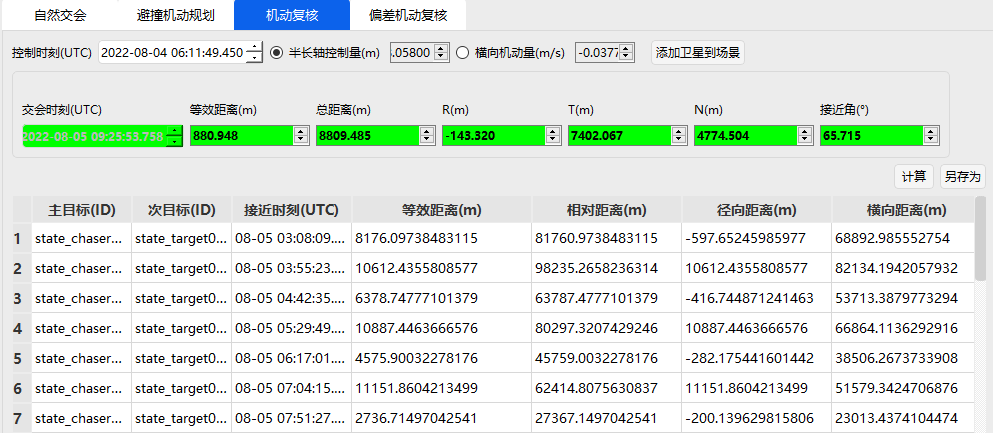
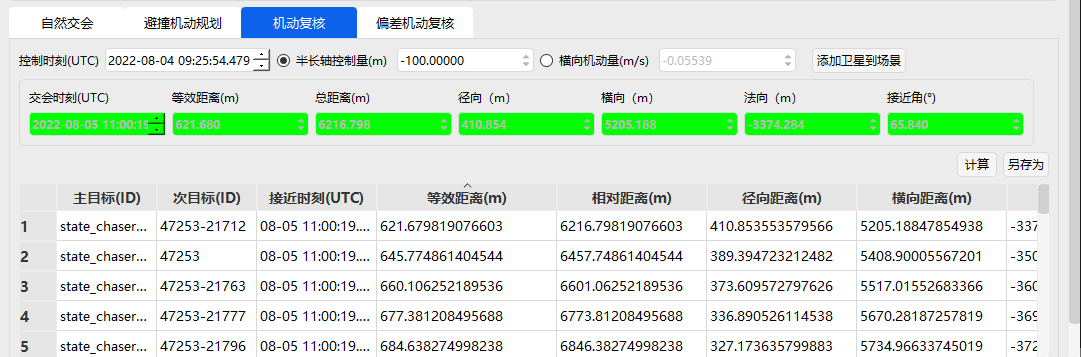
邹新强3.7修改版

diff --git a/3.案例教程/7-碰撞规避案例.md b/3.案例教程/7-碰撞规避案例.md
@@ -4,9 +4,9 @@
 
 本案例想定场景为航天器与单个重点空间目标及多目标库的多圈次碰撞规避分析。内容包括：
 
-1. 基于精密星历与相对轨道动力学模型建立航天器碰撞规避机动评估模型，涵盖自然交会分析、机动规划分析、机动复核功能。
+1. 基于精密星历与相对轨道动力学模型建立航天器碰撞规避机动评估模型，涵盖自然交会分析、机动规划分析、机动复核功能；
 
-2. 考虑航天器与空间目标多圈周期性接近对规避效果的影响，通过优化控制量，寻找测控圈次内的控制最优解，避免控制后短期内再次出现碰撞风险。
+2. 考虑航天器与空间目标多圈周期性接近对规避效果的影响，通过优化控制量，寻找测控圈次内的控制最优解，避免控制后短期内再次出现碰撞风险；
 
 3. 进行机动复核，提高机动规避效果，保证操作的安全性。
 
@@ -18,23 +18,23 @@
 
 1. 卫星星历
 
-   - “模式”为“从星历选择”，点击“星历文件”数据框右侧的![](media/3.7碰撞规避案例/image215.png)，读取“CAM”文件夹中在轨航天器精密星历数据文件“state_chaser0805.txt”，文件路径为：“…\\ATK\\AtkInput\\CAM\\state_chaser0805.txt”；代表选择卫星星历为“2022 年 8 月 2 日 23:00”至“2022 年 8 月 8 日 12:00” 中心格式的在轨航天器精密星历数据；
+   - “模式”为“从星历选择”，点击“星历文件”数据框右侧的【![](media/3.7碰撞规避案例/image215.png)】，读取“CAM”文件夹中在轨航天器精密星历数据文件“state_chaser0805.txt”，文件路径为：“…\\ATK\\AtkInput\\CAM\\state_chaser0805.txt”；代表选择卫星星历为“2022 年 8 月 2 日 23:00”至“2022 年 8 月 8 日 12:00” 中心格式的在轨航天器精密星历数据；
 
    - 下拉菜单选择 “UTC/BJT”—【UTC】时间格式。
 
 2. 目标星历
 
-   - 勾选【使用】，选择是否进行与指定空间目标的碰撞规避计算；
+   - 勾选【使用】，选择进行与指定空间目标的碰撞规避计算；
 
-   - “模式”为“从星历选择”，点击“星历文件”数据框右侧的![](media/3.7碰撞规避案例/image215.png)，读取目标精密星历数据 “state_target0805.txt”，文件路径为“…\\ATK\\AtkInput\\CAM\\state_target0805.txt”；代表选择目标星历为“2022 年 7 月 31 日 14:26”至“2022 年 8 月 8 日 14:26”中心格式的在轨航天器精密星历数据；
+   - “模式”为“从星历选择”，点击“星历文件”数据框右侧的【![](media/3.7碰撞规避案例/image215.png)】，读取目标精密星历数据文件 “state_target0805.txt”，文件路径为“…\\ATK\\AtkInput\\CAM\\state_target0805.txt”；代表选择目标星历为“2022 年 7 月 31 日 14:26”至“2022 年 8 月 8 日 14:26”中心格式的在轨航天器精密星历数据；
 
-   - 下拉菜单选择 “UTC/BJT”—【UTC】时间格式。
+   - 下拉菜单选择 “UTC/北京时”—【UTC】时间格式。
 
 3. 目标数据库
 
    - 勾选【使用 TLE】，单击【选择…】，使用 TLE 数据与数据库内所有其他空间目标进行碰撞规避计算；
 
-   - 选择并载入TLE格式数据“3le20220805.txt”，文件路径为“\\ATK\\AtkInput\\CAM\\test20220805\\ 3le20220805.txt”；表示截止2022年8月5日“SpaceTrack”收集的所有空间目标编目；
+   - 选择并载入TLE格式数据“3le20220805.txt”，文件路径为“\\ATK\\AtkInput\\CAM\\ 3le20220805.txt”；表示截止2022年8月5日“SpaceTrack”收集的所有空间目标编号。载入数据后取消勾选【使用 TLE】，在“机动复核”功能时再勾选此按钮；
 
    - 单击【设置】，输入需排除目标编号后选择【添加】，将目标编号加入列表中，点击【确定】保存，其中 SSC 为五位数的空间目标国际编号；
 
@@ -46,15 +46,15 @@
 
 1. 设置条件约束
 
-   - 在【交会分析门限】中输入需要规避的分析门限值“100km”，则计算后结果仅显示小于此次输入的分析门限值 100km 的数据；
+   - 在【交会分析门限】中输入需要规避的分析门限值“100000m”，则计算后结果仅显示小于此次输入的分析门限值 100000m 的数据；
 
    - 根据航天器与空间目标的相对运动状态，以及任务对计算速度和精度的要求，基于以下表格中的可选项，在【相对轨道预报模型】中选择适用于长时间多圈次的“非线性方程”：
 
    | 名称         | 算法                   | 选择场景                                             |
    | ------------ | ---------------------- | ---------------------------------------------------- |
    | 线性方程     | C-W 方程               | 相对轨道模型，会损失精度但计算速度较高               |
-   | 非线性方程   | 解析非线性相对运动方程 | 精度高于 C-W 模型计算速度低于 C-W 模型               |
-   | 解析绝对预报 | Vinti 方法             | 绝对轨道模型，精度最高做大相对运动、较长期预报更适合 |
+   | 非线性方程   | 解析非线性相对运动方程 | 精度高于 C-W 模型但计算速度低于 C-W 模型               |
+   | 解析绝对预报 | Vinti 方法             | 绝对轨道模型，精度最高，做大相对运动、较长期预报更适合 |
 
 2. 高级设置
 
@@ -65,59 +65,64 @@
    | 名称             | 值 | 单位 |
    | ---------------- | ---------- | -------- |
    | 轨道历元过期门限 | 2592000    | S      |
-   | 远近地点门限     | 50000      | m        |
+   | 远/近地点门限     | 50000      | m        |
    <!-- | 仿真步长分析     | 600        | Sec      | -->
 
    - 单击选择【高级设置】中的“等效距离告警门限”；
 
-   - 根据任务需求，设置“黄色告警”和“红色告警”数值如下表所示。单击【确定】。
+   - 根据任务需求，设置“黄色告警”和“红色告警”数值如下表所示,单击【确定】。
 
    | 名称     | 值 | 单位 |
    | -------- | ------ | ---- |
    | 黄色告警 | 200    | m    |
    | 红色告警 | 500    | m    |
+   | 等效距离系数 |10    | —    |
 
 ## 自然交会条件
 
-根据以上步骤，在主界面上完成了各航天器和空间目标数据配置和规避条件筛选。
+根据以上步骤，在主界面上完成了各航天器和空间目标的数据配置和规避条件筛选。
 
-1. 选择选择【自然交会】功能界面，单击右侧【计算】按钮，得出主目标与次目标的历次接近时刻对应的时间距离信息；
+1. 选择【自然交会】功能界面，单击右侧【计算】按钮，得出主目标与次目标的历次接近时刻对应的时间距离信息；
 
 2. 通过计算筛选，功能界面的上栏处得出在自然交会条件下的“最近等效距离”对应的信息：
 
-   |参数 |数值 |
-   | ------------ | ----------------------- |
-   | 交会时刻     | 2022/08/05 17:25:54.478 |
-   | 最近等效距离 | 52.875m                 |
-   | 相对距离     | 412.342m                |
-   | 径向距离     | -52.875m                |
-   | 横向距离     | -343.620m               |
-   | 法向距离     | -221.711m               |
-   | 接近角       | 65.715˚                 |
-
-      | 交会时刻     | 2022-08-05 09:25:54.479 |
-   | 最近等效距离 | 52.847m                 |
-   | 相对距离     | 412.342m                |
-   | 径向距离     | 52.847m                |
-   | 横向距离     | 343.419m               |
-   | 法向距离     | -222.030m               |
-   | 接近角       | 65.715˚                 |
+   |参数 |数值 | 单位|
+   | ------------ | ----------------------- |---|
+   | 交会时刻     | 2022-08-05 09:25:54.479 |— |
+   | 最近等效距离 | 52.847                 |m |
+   | 相对距离     | 412.342                |m |
+   | 径向距离     | 52.847               | m|
+   | 横向距离     | 343.419               |m |
+   | 法向距离     | -222.030              | m|
+   | 接近角       | 65.715                | °|
 
 3. 单击【另存为】可保存计算所得的所有数据。
 
 ## 机动规划分析
 
-根据航天测控跟踪计划和最近等效距离时的自然交会时刻，提前一天进行避撞机动规划，输入【控制时刻的前限（UTC）】2022-08-04 04:11:49.451和【控制时刻后限（UTC）】2022-08-04 08:11:49.451。
+选择【避撞机动规划】功能界面，根据航天测控跟踪计划和最近等效距离时的自然交会时刻，提前一天进行避撞机动规划，输入控制时刻参数如下：
 
-根据航天器平台机动能力限制和轨道维持约束，确定【半长轴控制量下限】为-100m，【半长轴控制量上限】为100m。基于以上输入信息，在如下图所示界面实施避撞机动规划分析操作。
+| 参数                     | 数值                           |
+|--------------------------|--------------------------------|
+| 控制时刻前限（UTC）     | 2022-08-04 09:25:54.479        |
+| 控制时刻后限（UTC）     | 2022-08-04 10:25:54.479        |
 
-![机动规划分析界面](media/3.7碰撞规避案例/image219-1.png)
+根据航天器平台机动能力限制和轨道维持约束，输入半长轴控制参数如下：
+
+| 参数                     | 数值                           |
+|--------------------------|--------------------------------|
+| 半长轴控制量下限（m）     | -100        |
+| 半长轴控制量上限（m）     | 100        |
+
+基于以上输入信息，进行避撞机动规划分析操作。
+
+<!-- ![机动规划分析界面](media/3.7碰撞规避案例/image219-1.png) -->
 
 1. 遍历分析
 
    - 选择遍历分析进行机动规划分析，勾选【时间规划】设定，【时间步长】为“600s”；
 
-   - 勾选【控制量规划】，设定【控制量步长】“20m”；
+   - 勾选【控制量规划】，设定【半长轴控制步长】为“20m”；
 
    - 点击【计算】按钮；
 
@@ -127,29 +132,29 @@
 
    - 选中需要时刻的“半长轴控制量”，单击右键【查看详情】，查看遍历分析二级详细结果；
 
-   ![查看详情界面](media/3.7碰撞规避案例/image221-1.png)
+   <!-- ![查看详情界面](media/3.7碰撞规避案例/image221-1.png) -->
 
-   - 根据所得结果，筛选“2022-08-04 04:11:49.451”控制时刻，对应的“半长轴控制量”为“-40.000m”；
+   - 根据所得结果，筛选“2022-08-04 09:25:54.479”控制时刻，对应的“半长轴控制量”为“-100.00000m”；
 
    - 选中该数据，单击【载入机动复核】。
 
-2. 优化算法
+2. 优化分析
 
-   - 选择优化分析进行机动规划分析，输入【规避门限值】为“200m”；
+   - 选择优化分析进行机动规划分析，输入【规避门限】为“200m”；
 
    - 点击【计算】按钮；
 
    - 得到最优的等效距离所对应的信息：
 
-   | 控制时刻     | 2022-08-04 06:11:49.450 |
+   | 控制时刻     | 2022-08-04 10:01:41.009 |
    | ------------ | ----------------------- |
-   | 半长轴控制量 | -68.058m                |
-   | 交会时刻     | 2022-08-05 09:25:53.758 |
-   | 等效距离     | 880.944m                |
-   | 总距离       | 8809.441m               |
-   | 径向距离     | -143.319m               |
-   | 横向距离     | 7402.030m               |
-   | 法向距离     | 4774.480m               |
+   | 半长轴控制量 | -20.229m                |
+   | 交会时刻     | 2022-08-05 09:25:54.291 |
+   | 等效距离     | 200m                |
+   | 总距离       | 2000m               |
+   | 径向     | 59.150m               |
+   | 横向     | -1678.662m               |
+   | 法向     |  1085.631m               |
 
    - 计算完毕后，单击【结果】按键，查看优化分析结果；
 
@@ -159,11 +164,11 @@
 
 1. 载入到机动复核
 
-   - 点击【载入到机动复核】按键，载入到“机动复核”功能界面中；
+   - 在“避撞机动规划”的“遍历分析”中，将所选时刻数据载入到机动复核后，进入“机动复核”功能界面；
 
-   - 检验【控制时刻】为2022-08-04 06:11:49.450对应的【半长轴控制量】“-68.05800m”,是否是可行的规避控制策略；
+   - 检验【控制时刻】为2022-08-04 09:25:54.479对应的【半长轴控制量】“-100.00000m”,是否是可行的规避控制策略，勾选【使用 TLE】按钮，查看机动结果是否会与其他目标发生碰撞； 
 
-   - 点击【计算】按钮；
+   - 点击【计算】按钮。
 
 2. 结果展示
 
@@ -171,17 +176,15 @@
 
    ![机动复核结果界面](media/3.7碰撞规避案例/image222-1.png)
 
-   - 点击数据【另存为】功能，存储 txt 格式数据。
+   - 点击【另存为】功能，可保存计算所得的所有数据。
 
 ## 偏差机动复核
 
 1. 载入机动复核
 
-   - 通过机动规划分析后，点击【载入到机动复核】按键，载入到“偏差机动复核”功能界面中；
+   - 通过机动规划分析后，点击【偏差机动复核】按键，载入到“偏差机动复核”功能界面；
 
-   - 检验数据。
-
-   检验数据。检查【控制时刻】“2022-08-04 06:11:49.450”对应的【半长轴控制量】“-68.058m”，是否是可行的规避控制策略。
+   - 检验数据。检查【控制时刻】“2022-08-04 09:25:54.479”对应的【半长轴控制量】“-100.000m”，是否是可行的规避控制策略。
 
 2. 估算半长轴偏差
 
@@ -195,38 +198,49 @@
    | 推力方位角（deg） | 0    | 0.003     |
    | 推力俯仰角（deg） | 0    | 0.003     |
 
-   - 单击“半长轴偏控制偏差结算”页面的【计算】按钮，得到【半长轴标准差3σ（m）】结果为“76.7798711148239”；
+   - 单击“半长轴偏差估算”页面的【计算】按钮，得到【半长轴标准差3σ（m）】结果为“76.7844598057339”；
 
-   ![半长轴控制偏差解算结果](media/3.7碰撞规避案例/image223-1.png)
+   <!-- ![半长轴控制偏差解算结果](media/3.7碰撞规避案例/image223-1.png) -->
 
-   - 关闭该页面，计算出的“半长轴标准差 3σ”数值直接载入“偏差机动复核”功能界面【半长轴标准差 3σ（m）】的输入框中。
+   - 关闭该页面，计算出的“半长轴标准差 3σ”数值自动载入“偏差机动复核”功能界面【半长轴标准差 3σ（m）】的输入框中。
 
-   ![半长轴标准差载入](media/3.7碰撞规避案例/image224-1.png)
+   <!-- ![半长轴标准差载入](media/3.7碰撞规避案例/image224-1.png) -->
 
 3. 控制偏差预报
 
-   - 点击“偏差机动复核”功能界面的【计算】按钮；
+   - 点击“偏差机动复核”功能界面的【计算】按钮，计算完毕后，点击【另存为】功能，存储 txt 格式数据；
 
    - 根据偏差机动复核结果，单击【控制偏差预报】按键，设定“预报时长”为 86400s，“预报步长”为 60s；
 
    - 单击“控制偏差预报”的【计算】按钮，直接生成相应的“坐标图”和“表格”，查看偏差预报的详细情况；
 
+   - 单击【坐标图】，查看偏差预报坐标图；
+  
    ![控制偏差预报界面](media/3.7碰撞规避案例/image225-1.png)
 
-   - 单击【坐标图】，根据需求选择合适的“横坐标”和“纵坐标”，查看偏差预报坐标图；
+   - 可根据需求选择合适的“横坐标”和“纵坐标”。
 
-   ![偏差预报横坐标选择](media/3.7碰撞规避案例/image226.png) 
+   <!-- ![偏差预报横坐标选择](media/3.7碰撞规避案例/image226.png) 
    
-   ![偏差预报纵坐标选择](media/3.7碰撞规避案例/image227.png)
+   ![偏差预报纵坐标选择](media/3.7碰撞规避案例/image227.png) -->
 
+   | 横坐标           | 纵坐标           |
+   |------------------|------------------|
+   | 历元时刻(UTC)     | 历元时刻(UTC)     |
+   | 偏差均值R(m)      | 偏差均值R(m)      |
+   | 偏差均值T(m)      | 偏差均值T(m)      |
+   | 偏差均值N(m)      | 偏差均值N(m)      |
+   | 偏差标准差R_3σ(m) | 偏差标准差R_3σ(m) |
+   | 偏差标准差T_3σ(m) | 偏差标准差T_3σ(m) |
+   | 偏差标准差N_3σ(m) | 偏差标准差N_3σ(m) |
 
 4. 查看结果与存储
 
    - 单击【表格】功能，查看控制偏差预报的具体数值；若需重新预报则再次输入数值，即可重新生成坐标图和表格数据；
 
-   - 单击【另存为】，存储控制偏差预报的 txt 格式数据结果。
+   - 点击【另存为】功能，可保存计算所得的所有数据。
 
-   ![控制偏差预报数据存储](media/3.7碰撞规避案例/image228-1.png)
+   <!-- ![控制偏差预报数据存储](media/3.7碰撞规避案例/image228-1.png)
 
    - 根据输入的控制时刻、半长轴控制量和半长轴标准差，单击【计算】按钮，通过结果可以得出，在前后多个轨道圈次内，验证该机动策略是否满足规避效果约束；
 
@@ -234,4 +248,4 @@
 
    - 点击【另存为】功能，存储 txt 格式数据。
 
-   ![偏差复核数据存储](media/3.7碰撞规避案例/image230.png)
+   ![偏差复核数据存储](media/3.7碰撞规避案例/image230.png) -->
